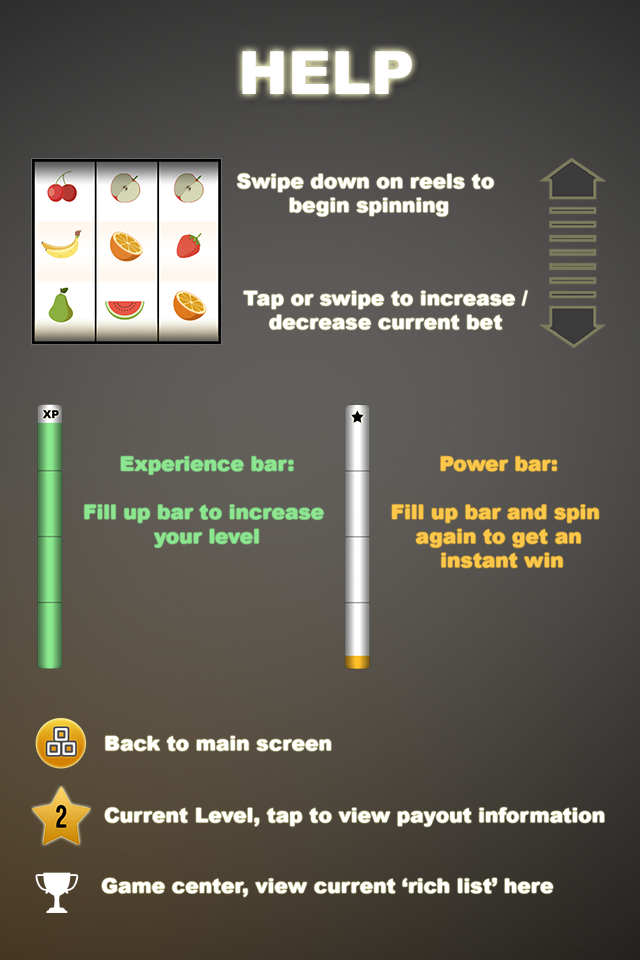
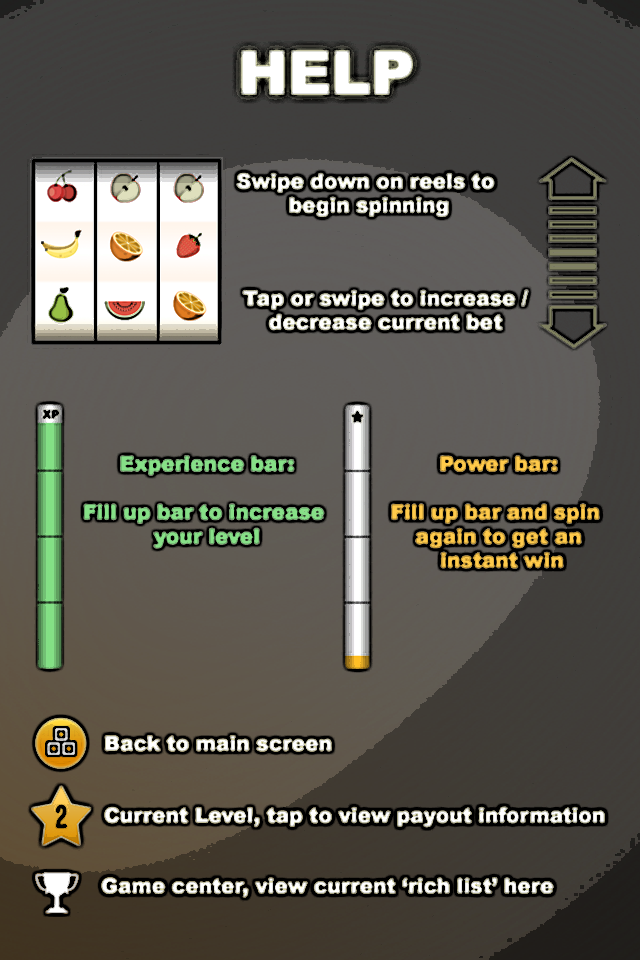
Payout screen added, help screen improved
added a payout screen to show the fruit multipliers and the help screen
as been improved to look more professional

diff --git a/Fruit Machine Game/Fruit Machine Game/MainGameScene.m b/Fruit Machine Game/Fruit Machine Game/MainGameScene.m
@@ -15,7 +15,7 @@ int totalSpend = 0, totalCredits;
 
 @implementation MainGameScene {
     
-    CCSprite *powerBar, *xpBar;
+    CCSprite *powerBar, *xpBar, *payout;
     
     NSMutableArray *fruits;
     NSMutableArray *fruitPositions;
@@ -144,6 +144,7 @@ int totalSpend = 0, totalCredits;
     numberOfReels = NUMBER_OF_REELS;
     numberOfFruits = NUMBER_OF_FRUITS;
     numberOfRows = NUMBER_OF_ROWS;
+    payout = NULL;
 }
 
 - (id) init {
@@ -1073,15 +1074,6 @@ int totalSpend = 0, totalCredits;
 
 - (void) setLevel {
     
-    NSString *file = [NSString stringWithFormat:@"%@%@", @"levelStar", [self getImageFileSuffix]];
-    
-    CCSprite *star = [CCSprite spriteWithFile:file];
-    
-    star.position = ccp(xpBar.position.x, totalCreditsLabel.position.y);
-    
-    [self addChild:star];
-    
-    
     levelLabel = [CCLabelTTF labelWithString:[NSString stringWithFormat:@"%i", currentLevel] fontName:LEVEL_FONT fontSize:LEVEL_FONTSIZE*iPadScaleFactor];
     
     levelLabel.position = ccp(xpBar.position.x, totalCreditsLabel.position.y - 1);
@@ -1284,12 +1276,43 @@ int totalSpend = 0, totalCredits;
     
     betMin.position = [self getMinButtonPosition];
     
+    // star level image
+    
+    file = [NSString stringWithFormat:@"%@%@", @"levelStar", [self getImageFileSuffix]];
+    
+    CCSprite *sprite1 = [CCSprite spriteWithFile:file];
+    CCSprite *sprite2 = [CCSprite spriteWithFile:file];
+    sprite2.color = ccGRAY;
+    
+    CCMenuItemSprite *levelStar = [CCMenuItemSprite itemWithNormalSprite:sprite1 selectedSprite:sprite2 target:self selector:@selector(showPayout)];
+    
+    levelStar.position = ccp(xpBar.position.x, totalCreditsLabel.position.y);
     
     
-    CCMenu *menu = [CCMenu menuWithItems:returnButton, betMin, betMax, nil];
+    CCMenu *menu = [CCMenu menuWithItems:returnButton, betMin, betMax, levelStar, nil];
     menu.position = CGPointZero;
     
     [self addChild:menu];
+}
+
+- (void) showPayout {
+    
+    if (payout == NULL) {
+        
+        [self playSoundEffect:TOUCH];
+        
+        NSString *file = [NSString stringWithFormat:@"%@%@", @"payOut", [self getBackgroundFileSuffix]];
+        
+        payout = [CCSprite spriteWithFile:file];
+        
+        payout.position = ccp(win.width/2, win.height/2);
+        
+        payout.opacity = 0;
+        
+        [self addChild:payout];
+        
+        [payout runAction:[CCFadeIn actionWithDuration:0.1]];
+    }
 }
 
 - (CGPoint) getTotalCreditPosition {
@@ -1421,17 +1444,20 @@ int totalSpend = 0, totalCredits;
 
 - (void) returnButtonPressed {
     
-    [self playSoundEffect:TOUCH];
-    
-    [SimpleAudioEngine sharedEngine].enabled = NO;
-    
-    [prefs synchronize];
-    [[CCDirector sharedDirector] replaceScene:[CCTransitionCrossFade transitionWithDuration:1.0 scene:[MainMenu scene]]];
+    if (payout == NULL) {
+        
+        [self playSoundEffect:TOUCH];
+        
+        [SimpleAudioEngine sharedEngine].enabled = NO;
+        
+        [prefs synchronize];
+        [[CCDirector sharedDirector] replaceScene:[CCTransitionCrossFade transitionWithDuration:1.0 scene:[MainMenu scene]]];
+    }
 }
 
 - (void) decreaseBet {
     
-    if (totalCredits >= bet) {
+    if (totalCredits >= bet && payout == NULL) {
         
         if ((bet % minBet) != 0) {
             
@@ -1455,7 +1481,7 @@ int totalSpend = 0, totalCredits;
 
 - (void) increaseBet {
     
-    if (totalCredits > bet) {
+    if (totalCredits > bet && payout == NULL) {
         
         if ((bet % minBet) != 0) {
             
@@ -1474,34 +1500,41 @@ int totalSpend = 0, totalCredits;
 
 - (void) betMin {
     
-    [self playSoundEffect:TOUCH];
-    
-    if (!fruitsSpinning) {
+    if (payout == NULL) {
         
-        if (minBet > totalCredits) {
+        [self playSoundEffect:TOUCH];
+        
+        if (!fruitsSpinning) {
             
-            bet = totalCredits;
-            
-        } else {
-            
-            bet = minBet;
+            if (minBet > totalCredits) {
+                
+                bet = totalCredits;
+                
+            } else {
+                
+                bet = minBet;
+            }
         }
+        
     }
 }
 
 - (void) betMax {
     
-    [self playSoundEffect:TOUCH];
-    
-    if (!fruitsSpinning) {
+    if (payout == NULL) {
         
-        if (maxBet > totalCredits) {
+        [self playSoundEffect:TOUCH];
+        
+        if (!fruitsSpinning) {
             
-            bet = totalCredits;
-            
-        } else {
-            
-            bet = maxBet;
+            if (maxBet > totalCredits) {
+                
+                bet = totalCredits;
+                
+            } else {
+                
+                bet = maxBet;
+            }
         }
     }
 }
@@ -1530,17 +1563,26 @@ int totalSpend = 0, totalCredits;
     lastTouch = [touch locationInView:[touch view]];
     lastTouch = [[CCDirector sharedDirector] convertToGL:lastTouch];
     
-    double touchDifference = lastTouch.y - firstTouch.y;
-    
-    if (!fruitsSpinning && touchDifference <= 20 && touchDifference >= - 20) {
+    if (payout != NULL) {
         
-        if (firstTouch.y <= (startingPosition.y + startingPosition.y/2) && firstTouch.y >= betLabel.position.y) {
+        [self playSoundEffect:TOUCH];
+        [self removeChild:payout cleanup:YES];
+        payout = NULL;
+        
+    } else {
+        
+        double touchDifference = lastTouch.y - firstTouch.y;
+        
+        if (!fruitsSpinning && touchDifference <= 20 && touchDifference >= - 20) {
             
-            [self increaseBet];
-            
-        } else if (firstTouch.y < startingPosition.y && firstTouch.y <= winLabel.position.y) {
-            
-            [self decreaseBet];
+            if (firstTouch.y <= (startingPosition.y + startingPosition.y/2) && firstTouch.y >= betLabel.position.y) {
+                
+                [self increaseBet];
+                
+            } else if (firstTouch.y < startingPosition.y && firstTouch.y <= winLabel.position.y) {
+                
+                [self decreaseBet];
+            }
         }
     }
 }

diff --git a/Fruit Machine Game/Fruit Machine Game/MainMenu.m b/Fruit Machine Game/Fruit Machine Game/MainMenu.m
@@ -237,14 +237,17 @@
 
 - (void) reset {
     
-    UIAlertView *myAlert = [[UIAlertView alloc]
-                            initWithTitle:@"Reset Everything"
-                            message:@"Are you sure you want to reset all progress?"
-                            delegate:self
-                            cancelButtonTitle:@"Reset"
-                            otherButtonTitles:@"Cancel",nil];
-    [myAlert show];
-    [myAlert release];
+    if (help == NULL) {
+        
+        UIAlertView *myAlert = [[UIAlertView alloc]
+                                initWithTitle:@"Reset Everything"
+                                message:@"Are you sure you want to reset all progress?"
+                                delegate:self
+                                cancelButtonTitle:@"Reset"
+                                otherButtonTitles:@"Cancel",nil];
+        [myAlert show];
+        [myAlert release];
+    }
 }
 
 - (void) alertView:(UIAlertView *)alertView didDismissWithButtonIndex:(NSInteger)buttonIndex {
@@ -264,7 +267,11 @@
 
 - (void) showLeaderboard {
     
-    [self playSoundEffect:TOUCH];
+    if (help == NULL) {
+        
+        [self playSoundEffect:TOUCH];
+        
+    }
 }
 
 - (void) showHelp {
@@ -289,45 +296,51 @@
 
 - (void) mute {
     
-    [self playSoundEffect:TOUCH];
-    
-    if ([[NSUserDefaults standardUserDefaults] integerForKey:MUTE_DATA] == UNMUTE) {
+    if (help == NULL) {
         
-        [[NSUserDefaults standardUserDefaults] setInteger:MUTE forKey:MUTE_DATA];
+        [self playSoundEffect:TOUCH];
         
-        NSString *file = [NSString stringWithFormat:@"%@%@", @"muteOn", [self getImageFileSuffix]];
-        CCSprite *select = [CCSprite spriteWithFile:file];
-        select.color = ccc3(MENU_R, MENU_G, MENU_B);
-        mute.normalImage = select;
-        
-    } else {
-        
-        [[NSUserDefaults standardUserDefaults] setInteger:UNMUTE forKey:MUTE_DATA];
-        
-        NSString *file = [NSString stringWithFormat:@"%@%@", @"muteOff", [self getImageFileSuffix]];
-        CCSprite *select = [CCSprite spriteWithFile:file];
-        mute.normalImage = select;
+        if ([[NSUserDefaults standardUserDefaults] integerForKey:MUTE_DATA] == UNMUTE) {
+            
+            [[NSUserDefaults standardUserDefaults] setInteger:MUTE forKey:MUTE_DATA];
+            
+            NSString *file = [NSString stringWithFormat:@"%@%@", @"muteOn", [self getImageFileSuffix]];
+            CCSprite *select = [CCSprite spriteWithFile:file];
+            select.color = ccc3(MENU_R, MENU_G, MENU_B);
+            mute.normalImage = select;
+            
+        } else {
+            
+            [[NSUserDefaults standardUserDefaults] setInteger:UNMUTE forKey:MUTE_DATA];
+            
+            NSString *file = [NSString stringWithFormat:@"%@%@", @"muteOff", [self getImageFileSuffix]];
+            CCSprite *select = [CCSprite spriteWithFile:file];
+            mute.normalImage = select;
+        }
     }
 }
 
 - (void) extendOptions {
     
-    [self playSoundEffect:TOUCH];
-    
-    if (optionBar.numberOfRunningActions == 0 && menu.numberOfRunningActions == 0) {
+    if (help == NULL) {
         
-        if (optionBar.position.x < 0) {
+        [self playSoundEffect:TOUCH];
+        
+        if (optionBar.numberOfRunningActions == 0 && menu.numberOfRunningActions == 0) {
             
-            [optionBar runAction:[CCMoveTo actionWithDuration:OPTION_BAR_MOVE_TIME position:ccp(optionBar.contentSize.width/2.50, optionBar.position.y)]];
-            
-            menu.enabled = YES;
-            [menu runAction:[CCSequence actionOne:[CCDelayTime actionWithDuration:OPTION_BAR_MOVE_TIME] two:[CCFadeIn actionWithDuration:0.1]]];
-            
-        } else {
-            
-            [optionBar runAction:[CCMoveTo actionWithDuration:OPTION_BAR_MOVE_TIME position:ccp(-optionBar.contentSize.width/2.8, optionBar.position.y)]];
-            menu.opacity = 0;
-            menu.enabled = NO;
+            if (optionBar.position.x < 0) {
+                
+                [optionBar runAction:[CCMoveTo actionWithDuration:OPTION_BAR_MOVE_TIME position:ccp(optionBar.contentSize.width/2.50, optionBar.position.y)]];
+                
+                menu.enabled = YES;
+                [menu runAction:[CCSequence actionOne:[CCDelayTime actionWithDuration:OPTION_BAR_MOVE_TIME] two:[CCFadeIn actionWithDuration:0.1]]];
+                
+            } else {
+                
+                [optionBar runAction:[CCMoveTo actionWithDuration:OPTION_BAR_MOVE_TIME position:ccp(-optionBar.contentSize.width/2.8, optionBar.position.y)]];
+                menu.opacity = 0;
+                menu.enabled = NO;
+            }
         }
     }
 }
@@ -374,9 +387,29 @@
         
         if (touchLocation.y < win.height/2) {
             
-            [self playSoundEffect:TOUCH];
+            if (![[NSUserDefaults standardUserDefaults] integerForKey:FIRST_RUN]) {
+                
+                [self showHelp];
+                
+            } else {
+                
+                [self playSoundEffect:TOUCH];
+                [[CCDirector sharedDirector] replaceScene:[CCTransitionCrossFade transitionWithDuration:1.0 scene:[MainGameScene scene]]];
+            }
+        }
+        
+    } else if (touchLocation.y < win.height/2) {
+        
+        if (![[NSUserDefaults standardUserDefaults] integerForKey:FIRST_RUN]) {
+            
+            [[NSUserDefaults standardUserDefaults] setInteger:1 forKey:FIRST_RUN];
             [[CCDirector sharedDirector] replaceScene:[CCTransitionCrossFade transitionWithDuration:1.0 scene:[MainGameScene scene]]];
             
+        } else {
+            
+            [self playSoundEffect:TOUCH];
+            [self removeChild:help cleanup:YES];
+            help = NULL;
         }
         
     } else {

diff --git a/Fruit Machine Game/Fruit Machine Game/Config.h b/Fruit Machine Game/Fruit Machine Game/Config.h
@@ -17,6 +17,7 @@
 #define WIN @"win.mp3"
 
 // NSUserDefault
+
 #define MUTE_DATA @"Mute"
 #define MUTE 1
 #define UNMUTE 0
@@ -27,6 +28,7 @@
 #define OPTION_BAR_MOVE_TIME 0.4
 
 // NSUserDefaults File Names
+#define FIRST_RUN @"firstRun"
 #define TOTALCREDITS @"TotalCredits"
 #define CURRENT_LEVEL @"CurrentLevel"
 #define TOTALXP @"TotalXP"
